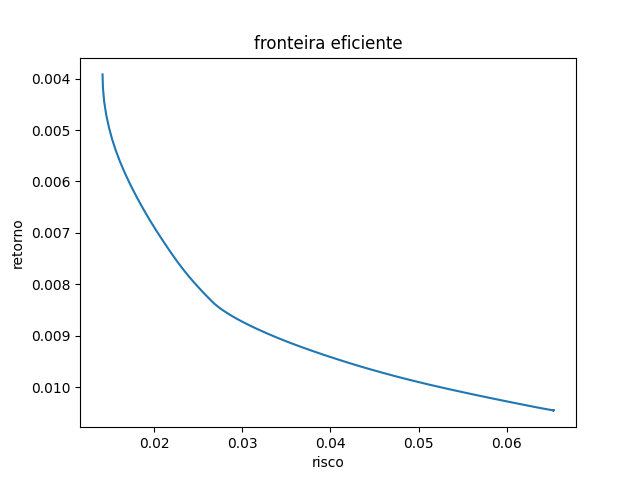
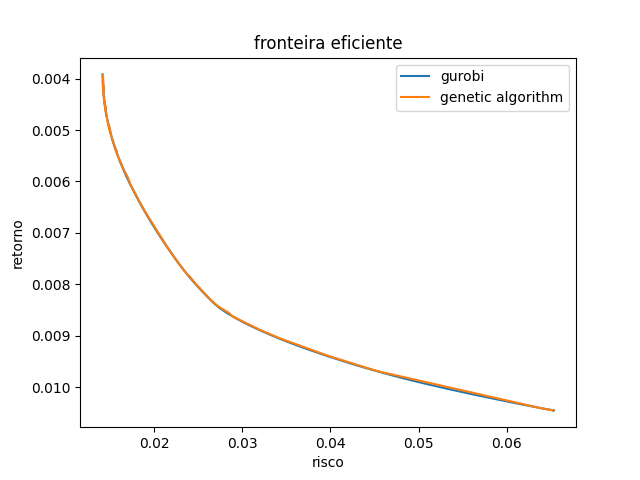
adição do algoritmo genetico

diff --git a/src/genetic_algorithm.py b/src/genetic_algorithm.py
@@ -1,0 +1,169 @@
+import numpy as np
+
+POPULATION_SIZE, NUM_EPOCHS, MAX_ITER_WO_IMPROVEMENT = 10, 10000, 1000
+
+
+class GeneticAlgorithm:
+    def __init__(self, df, alpha):
+        self.iter = 0
+        self.iter_wo_improvement = 0
+        self.max_epoch = NUM_EPOCHS
+        self.max_iter_wo_improvement = MAX_ITER_WO_IMPROVEMENT
+        self.population_size = POPULATION_SIZE
+        self.df_returns = df.pct_change().dropna()
+        self.portfolio_size = self.df_returns.shape[1]
+        self.population = None
+        self.children = []
+        self.best_solution = None
+        self.avg_return = None
+        self.risk = None
+        self.fitness = None
+        self.num_candle_return = df.shape[0]
+        self.alpha = alpha
+
+    def generate_random_portfolio(self):
+        """
+        This function generates a random portfolio given its number of assets
+        :return: randomly generated portfolio
+        """
+        portfolio = np.random.random(size=self.portfolio_size)
+        portfolio = portfolio / sum(portfolio)
+        return portfolio
+
+    def fitness_function(self, portfolio):
+        """
+        Fitness Function for optimizing a portfolio.
+        :param: portfolio: portfolio weights
+        :return: Average Return normalized by volatility ~ Sharpe Ratio
+        """
+        risk = np.sqrt(np.linalg.multi_dot([portfolio, self.df_returns.cov(), portfolio]))
+        avg_return = np.dot(self.df_returns.iloc[-self.num_candle_return:].mean(), portfolio)
+        return self.alpha*avg_return + (1-self.alpha)*-risk
+
+    def initial_population(self):
+        """
+        Creates the initial population of portfolios.
+        :return: a list of randomly generated portfolios.
+        """
+        population = []
+        for _ in range(self.population_size):
+            portfolio = self.generate_random_portfolio()
+            population.append({'sol': portfolio, 'fitness': self.fitness_function(portfolio)})
+        self.population = population
+
+    def select_parents(self):
+        """
+        Given a population select two individuals with uniform probability.
+        :return: a list containing two portfolios
+        """
+        probability = np.array([i.get('fitness') for i in self.population])
+        probability = np.divide(probability, sum(probability))
+        if np.isnan(probability).any() or (probability <= 0).any():
+            parents = np.random.choice(self.population, size=2, replace=False)
+        else:
+            parents = np.random.choice(self.population, size=2, replace=False, p=probability)
+        return parents
+
+    def cross_over(self, parents):
+        """
+        Given two portfolios, do a crossover to create a child portfolio.
+        :param: parents: a list containing two portfolios
+        :return: a child portfolio generated by mixing the weights from the parents
+        """
+        for _ in range(2):
+            b = np.random.random()
+            child_sol = (b * parents[0].get('sol') + (1 - b) * parents[1].get('sol')).copy()
+            child = {
+                'sol': child_sol,
+                'fitness': self.fitness_function(child_sol)
+            }
+            self.children = np.append(self.children, child)
+
+    def mutate_children(self):
+        """With some probability randomly switch some of the child's weights.
+        :return: mutated children
+        """
+        for portfolio in self.children:
+            sol1 = portfolio.get('sol').copy()
+            i = np.random.randint(self.portfolio_size)
+            j = np.random.randint(self.portfolio_size)
+            sol1[i], sol1[j] = sol1[j], sol1[i]
+            child = {
+                'sol': sol1,
+                'fitness': self.fitness_function(sol1)
+            }
+            self.children = np.append(self.children, child)
+
+            sol2 = portfolio.get('sol').copy()
+            i = np.random.randint(self.portfolio_size)
+            j = np.random.randint(self.portfolio_size)
+            s = (sol2[i] + sol2[j]).copy()
+            sol2[i] = s
+            sol2[j] = 0
+            child = {
+                'sol': sol2,
+                'fitness': self.fitness_function(sol2)
+            }
+            self.children = np.append(self.children, child)
+
+    def generate_next_population(self):
+        """
+        Generates the next population by taking the best children and worst parents.
+        :return: next population
+        """
+        best_children = sorted(self.children, key=lambda k: k['fitness'])[-2:]
+        worst_parents = sorted(self.population, key=lambda k: k['fitness'])[2:]
+        self.population = np.append(best_children, worst_parents)
+
+    def check_stop_criteria(self):
+        if self.iter > self.max_epoch or self.iter_wo_improvement > self.max_iter_wo_improvement:
+            return False
+        else:
+            self.iter = self.iter + 1
+            local_best = sorted(self.population, key=lambda k: k['fitness'])[-1].copy()
+            if local_best.get('fitness') > self.best_solution.get('fitness'):
+                self.iter_wo_improvement = 0
+                self.best_solution = local_best
+                self.fitness = self.best_solution.get('fitness')
+                self.risk = np.sqrt(np.linalg.multi_dot(
+                    [self.best_solution.get('sol'), self.df_returns.cov(), self.best_solution.get('sol')]))
+                self.avg_return = np.dot(self.df_returns.mean(), self.best_solution.get('sol'))
+            else:
+                self.iter_wo_improvement = self.iter_wo_improvement + 1
+            return True
+
+    def normalize_population(self):
+        norm_population = np.array([])
+        for portfolio in self.population:
+            norm_sol = portfolio.get('sol') / portfolio.get('sol').sum()
+            norm_port = {
+                'sol': norm_sol,
+                'fitness': self.fitness_function(norm_sol)
+            }
+            norm_population = np.append(norm_population, norm_port)
+        self.population = norm_population
+
+    def optimize(self):
+        """Run Genetic Algorithm
+        :return: return the best population, its return and risk
+        """
+        self.initial_population()
+        self.best_solution = sorted(self.population, key=lambda k: k['fitness'])[-1]
+
+        while self.check_stop_criteria():
+            self.children = []
+            parents = self.select_parents()
+            self.cross_over(parents)
+            self.mutate_children()
+            self.generate_next_population()
+            self.normalize_population()
+
+    def __call__(self):
+        self.optimize()
+        print("---------------------------")
+        print(f"solution alpha {self.alpha} = ")
+        print("Objective Function Value", self.best_solution.get("fitness"))
+        print(f'R: {100*self.avg_return}%')
+        print(f'Risco: {100*self.risk} %')
+        print(f"Sharpe: {self.avg_return / self.risk}")
+        return self.best_solution, self.avg_return, self.risk

diff --git a/src/main.py b/src/main.py
@@ -2,6 +2,7 @@ from gurobipy import *
 import pandas as pd
 import numpy as np
 from pathlib import Path
+from genetic_algorithm import GeneticAlgorithm
 
 # set variables
 data_path = Path(__file__).parent.parent.resolve().joinpath("input_data", "base_dados.xlsx")
@@ -42,14 +43,19 @@ def solve_for_alpha(alpha):
     return w_opt, np.linalg.multi_dot([R, w_opt]), np.sqrt(np.linalg.multi_dot([w_opt, Sigma, w_opt]))
 
 
-def save_result_image(solutions):
+def save_result_image(solutions1, solutions2):
     import matplotlib.pyplot as plt
 
-    solutions = pd.DataFrame(solutions)
-    plt.plot(solutions[1], solutions[0])
+    solutions1 = pd.DataFrame(solutions1)
+    plt.plot(solutions1[1], solutions1[0], label="gurobi")
+
+    solutions2 = pd.DataFrame(solutions2)
+    plt.plot(solutions2[1], solutions2[0], label="genetic algorithm")
+
     plt.title("fronteira eficiente")
     plt.xlabel("risco")
     plt.ylabel("retorno")
+    plt.legend()
     plt.gca().invert_yaxis()
     image_path = Path(__file__).parent.parent.resolve().joinpath("images", "fronteira_eficiente.png")
     plt.savefig(image_path)
@@ -57,9 +63,14 @@ def save_result_image(solutions):
 
 alphas = np.linspace(start=0, stop=1, num=100)
 
-solutions = []
+solutions1 = []
 for alpha in alphas:
     w_opt, asset_return, asset_risk = solve_for_alpha(alpha)
-    solutions.append([asset_return, asset_risk])
+    solutions1.append([asset_return, asset_risk])
 
-save_result_image(solutions)
+solutions2 = []
+for alpha in alphas:
+    w_opt, asset_return, asset_risk = GeneticAlgorithm(df, alpha)()
+    solutions2.append([asset_return, asset_risk])
+
+save_result_image(solutions1, solutions2)

diff --git a/README.md b/README.md
@@ -1,9 +1,18 @@
 # markowitz optimization
 
-Aplicação do método de soma ponderada para resolver o problema de otimização de markowitz.
+Aplicação do método de soma ponderada para resolver o problema de otimização de markowitz e gerar a fronteira eficiente
+variando os pesos.
 
 ## Solução Gurobi
-Utilizando os dados de preço em input_data geramos a fronteira eficiente (obs: a coordenada y dos retornos está 
-invertida pois resolvemos o problema biobjetivo por minimização).
+Usamos os dados de preço em input_data e geramos a fronteira eficiente (obs: a coordenada y dos retornos está 
+invertida pois resolvemos o problema biobjetivo por minimização). Utilizamos a variância como proxy de risco pois 
+o solver gurobi não consegue otimizar raizes quadradas, e a média dos retornos como proxy de retorno.
 
+## Solução Algoritmo Genético
+Também foi desenvolvido um algoritmo genético para ser comparado a solução encontrada pelo gurobi. Para o algoritmo
+genético utilizamos o desvio padrão como proxy de risco e a média dos retornos como proxy de retorno.
+
+## comparaçao entre as soluções
+Podemos ver que a fronteira eficiente gerada otimizando variância ou desvio padrão é a mesma, ainda que os pontos sejam
+diferentes.
 ![fronteira_eficiente](images/fronteira_eficiente.png)
